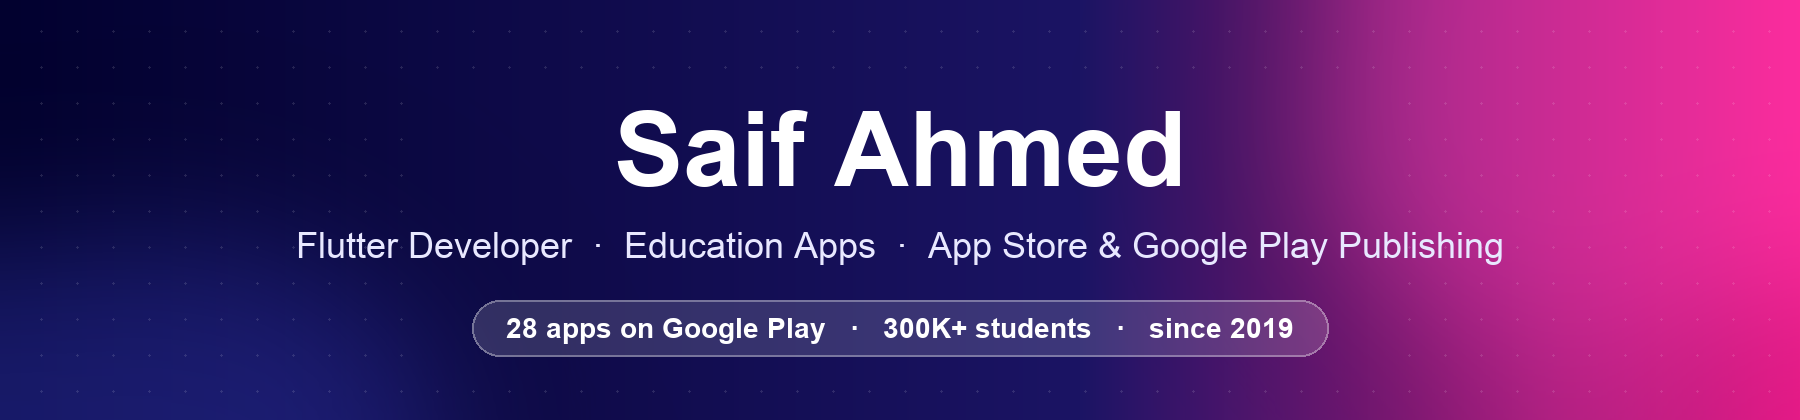
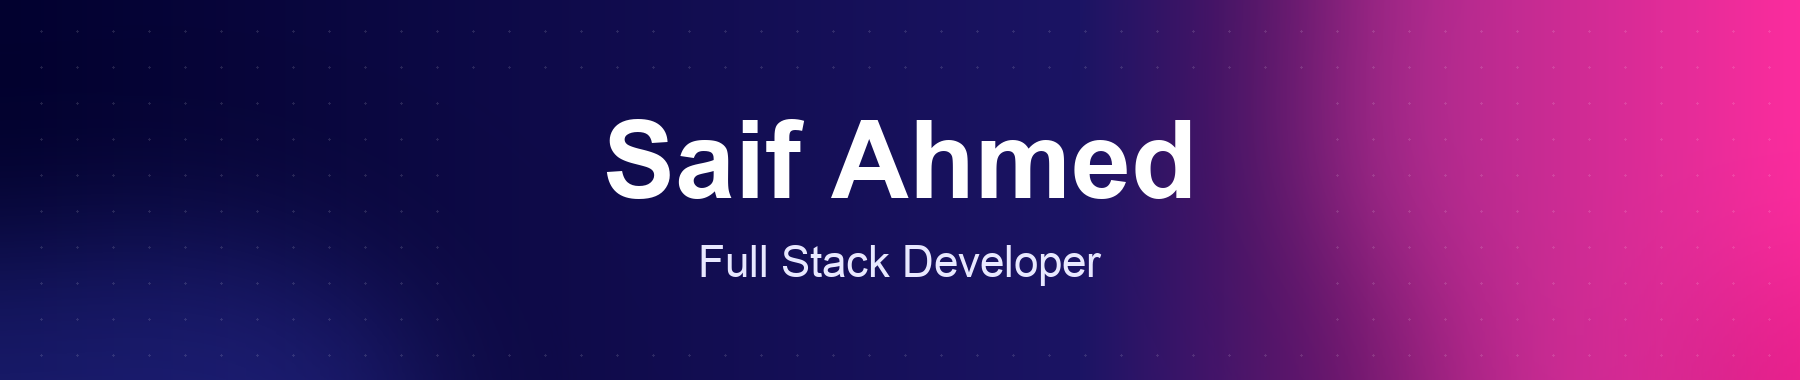
Full stack profile, custom header

Changed region(s): [[0.2489, 0.55, 0.84, 0.8684], [0.3111, 0.2605, 0.6844, 0.5211], [0.1556, 0.55, 0.3111, 0.6368]]

diff --git a/README.md b/README.md
@@ -1,9 +1,9 @@
 <div align="center">
 
-<img src="assets/header.png" width="100%" alt="Saif Ahmed — Flutter Developer"/>
+<img src="assets/header.png" width="100%" alt="Saif Ahmed — Full Stack Developer"/>
 
 <a href="https://nexwavetec.com">
-  <img src="https://readme-typing-svg.demolab.com?font=Inter&weight=600&size=21&duration=2800&pause=900&color=FA1991&center=true&vCenter=true&width=640&height=60&lines=I+build+branded+apps+for+tutors+and+schools;28+apps+live+on+Google+Play;300%2C000%2B+students+installed+my+apps;Protected+video+%E2%80%A2+Exams+%E2%80%A2+Attendance+%E2%80%A2+Payments" alt="Typing intro"/>
+  <img src="https://readme-typing-svg.demolab.com?font=Inter&weight=600&size=21&duration=2800&pause=900&color=FA1991&center=true&vCenter=true&width=640&height=60&lines=Flutter+apps+for+Android%2C+iOS+and+the+web;Firebase+and+Node.js+backends;Next.js+websites+and+dashboards;Education+platforms+used+every+day" alt="Typing intro"/>
 </a>
 
 <br/>
@@ -15,43 +15,30 @@
 
 </div>
 
-<br/>
-
-<table align="center">
-<tr>
-<td align="center" width="25%"><h2>28</h2>apps live on<br/><b>Google Play</b></td>
-<td align="center" width="25%"><h2>35+</h2>apps uploaded to<br/><b>the App Store</b></td>
-<td align="center" width="25%"><h2>300K+</h2>students installed<br/><b>my apps</b></td>
-<td align="center" width="25%"><h2>4</h2>stores: Play, Apple,<br/><b>Huawei, Microsoft</b></td>
-</tr>
-</table>
-
 ## 👋 About me
 
-Since 2019 I've built education apps for private tutors in Egypt. Every tutor gets a branded student app, a teacher app and a web dashboard, and I publish all of them myself on Google Play, the App Store, Huawei AppGallery and Microsoft Store.
+I'm a full stack developer from Egypt, working since 2019. Most of my work is education software: a branded student app, a teacher app and a web dashboard for each tutor, all running on one shared backend. Tutors use them every day with their students.
 
-The apps run real centers every day: protected video lessons, auto-graded exams, QR attendance at the door, online payments and WhatsApp reports to parents.
-
-## 🛠 What I can do for you
+## 🛠 What I build
 
 <table>
 <tr>
 <td width="50%" valign="top">
 
-**📱 Flutter apps**<br/>
-Android, iOS, web, macOS and Windows from one codebase. New apps, or taking over and finishing an existing one.
+**📱 Mobile apps**<br/>
+Flutter apps for Android, iOS, macOS and Windows. New apps, or taking over an existing one and finishing it.
 
 **🎓 Education platforms**<br/>
-Courses, encrypted video (one device per student, no screen recording), exams, attendance, subscriptions and codes.
+Courses, protected video, exams with auto-grading, attendance, subscriptions and payments.
 
 </td>
 <td width="50%" valign="top">
 
-**🚀 Store publishing**<br/>
-Signing, store listings, privacy forms, review rejections, TestFlight, and transferring apps between accounts.
+**🌐 Web**<br/>
+Next.js and React websites, student portals and admin dashboards.
 
-**🔥 Firebase & dashboards**<br/>
-Auth, Firestore, Cloud Functions, push notifications, and Next.js admin dashboards.
+**🔥 Backend**<br/>
+Firebase (Auth, Firestore, Cloud Functions, push notifications) and Node.js services.
 
 </td>
 </tr>
@@ -63,7 +50,7 @@ Auth, Firestore, Cloud Functions, push notifications, and Next.js admin dashboar
 <tr>
 <td width="50%" align="center">
 <a href="https://play.google.com/store/apps/details?id=com.saif.muyasser.hassan.st.muyasser_hassan_st"><img src="assets/student-app.jpg" width="100%"/></a><br/>
-<b>Student app</b>: protected video, exams with answer review, QR student card<br/>
+<b>Student app</b>: video lessons, exams with answer review, QR student card<br/>
 <a href="https://play.google.com/store/apps/details?id=com.saif.muyasser.hassan.st.muyasser_hassan_st"><img src="https://img.shields.io/badge/Google%20Play-414141?style=flat-square&logo=googleplay&logoColor=white"/></a>
 <a href="https://apps.apple.com/app/id6741539866"><img src="https://img.shields.io/badge/App%20Store-0D96F6?style=flat-square&logo=appstore&logoColor=white"/></a>
 <a href="https://appgallery.huawei.com/app/C114527867"><img src="https://img.shields.io/badge/AppGallery-C7000B?style=flat-square&logo=huawei&logoColor=white"/></a>
@@ -71,27 +58,27 @@ Auth, Firestore, Cloud Functions, push notifications, and Next.js admin dashboar
 </td>
 <td width="50%" align="center">
 <a href="https://mostaql.com/portfolio/3865342"><img src="assets/teacher-dashboard.jpg" width="100%"/></a><br/>
-<b>Teacher app + web dashboard</b>: 481 students in one class, live exam stats, QR attendance<br/>
+<b>Teacher app + web dashboard</b>: students, attendance by QR, live exam statistics<br/>
 <img src="https://img.shields.io/badge/Flutter-02569B?style=flat-square&logo=flutter&logoColor=white"/>
 <img src="https://img.shields.io/badge/Firebase-FFCA28?style=flat-square&logo=firebase&logoColor=black"/>
 </td>
 </tr>
 <tr>
 <td width="50%" align="center">
-<a href="https://play.google.com/store/apps/dev?id=5042668965024497761"><img src="assets/stores.jpg" width="100%"/></a><br/>
-<b>28 apps on our Google Play account</b>, several past 10K+ downloads<br/>
-<a href="https://play.google.com/store/apps/dev?id=5042668965024497761"><img src="https://img.shields.io/badge/See%20all%20apps-414141?style=flat-square&logo=googleplay&logoColor=white"/></a>
+<a href="https://mr-muyassar.com"><img src="assets/student-website.jpg" width="100%"/></a><br/>
+<b>Student website</b>: animated landing page and the full student area<br/>
+<a href="https://mr-muyassar.com"><img src="https://img.shields.io/badge/Live%20site-000000?style=flat-square&logo=nextdotjs&logoColor=white"/></a>
 </td>
 <td width="50%" align="center">
-<a href="https://mr-muyassar.com"><img src="assets/student-website.jpg" width="100%"/></a><br/>
-<b>Student website</b>: animated Arabic landing page plus the full student area<br/>
-<a href="https://mr-muyassar.com"><img src="https://img.shields.io/badge/Live%20site-000000?style=flat-square&logo=nextdotjs&logoColor=white"/></a>
+<a href="https://play.google.com/store/apps/dev?id=5042668965024497761"><img src="assets/stores.jpg" width="100%"/></a><br/>
+<b>Our apps on Google Play</b>: one developer account, one app per tutor<br/>
+<a href="https://play.google.com/store/apps/dev?id=5042668965024497761"><img src="https://img.shields.io/badge/See%20the%20apps-414141?style=flat-square&logo=googleplay&logoColor=white"/></a>
 </td>
 </tr>
 <tr>
 <td width="50%" align="center">
 <a href="https://mostaql.com/portfolio/3863191"><img src="assets/farm-app.jpg" width="100%"/></a><br/>
-<b>Livestock farm app</b>: cost and break-even per animal, works offline<br/>
+<b>Livestock farm app</b>: cost and break-even price per animal, works offline<br/>
 <img src="https://img.shields.io/badge/React-20232A?style=flat-square&logo=react&logoColor=61DAFB"/>
 <img src="https://img.shields.io/badge/Capacitor-119EFF?style=flat-square&logo=capacitor&logoColor=white"/>
 </td>
@@ -116,18 +103,17 @@ Auth, Firestore, Cloud Functions, push notifications, and Next.js admin dashboar
 ![TypeScript](https://img.shields.io/badge/TypeScript-3178C6?style=for-the-badge&logo=typescript&logoColor=white)
 ![Capacitor](https://img.shields.io/badge/Capacitor-119EFF?style=for-the-badge&logo=capacitor&logoColor=white)
 ![GitHub Actions](https://img.shields.io/badge/GitHub%20Actions-2088FF?style=for-the-badge&logo=githubactions&logoColor=white)
-![Xcode Cloud](https://img.shields.io/badge/Xcode%20Cloud-147EFB?style=for-the-badge&logo=xcode&logoColor=white)
 
 </div>
 
 ## 📬 Let's work together
 
-Most of my code is private client work, so the best way to see it is in the apps themselves. Download one from the links above, or message me and I'll walk you through how it's built.
+Most of my code is private client work, so the apps themselves are the best demo. Download one from the links above, or message me and I'll walk you through how it's built.
 
 <div align="center">
 
 <a href="https://www.upwork.com/freelancers/~01005df5bc7a256142"><img src="https://img.shields.io/badge/Upwork-14A800?style=for-the-badge&logo=upwork&logoColor=white"/></a>
-<a href="https://mostaql.com/u/saif606012"><img src="https://img.shields.io/badge/Hire%20me%20on-Mostaql-2386C8?style=for-the-badge"/></a>
+<a href="https://mostaql.com/u/saif606012"><img src="https://img.shields.io/badge/Mostaql-2386C8?style=for-the-badge"/></a>
 <a href="https://www.freelancer.com/u/saifahmed606012"><img src="https://img.shields.io/badge/Freelancer-29B2FE?style=for-the-badge&logo=freelancer&logoColor=white"/></a>
 
 <br/><img src="assets/footer.png" width="100%" height="8"/>
